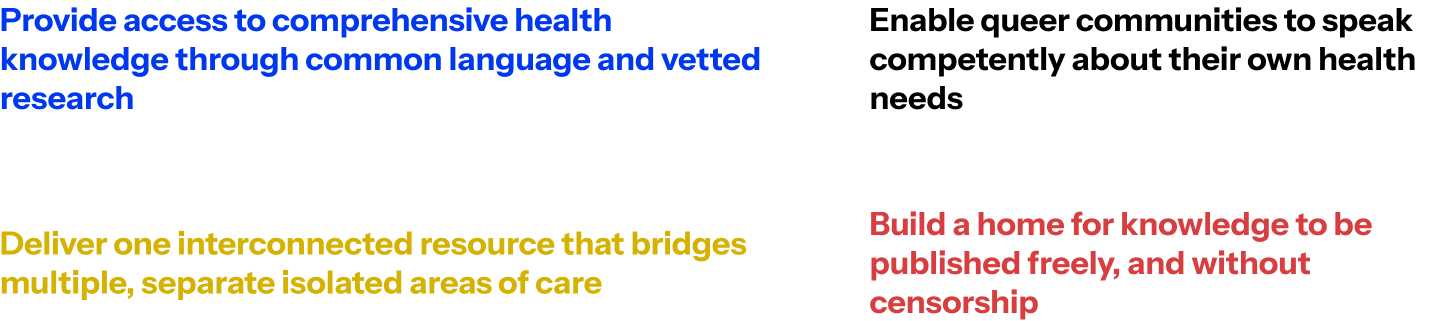
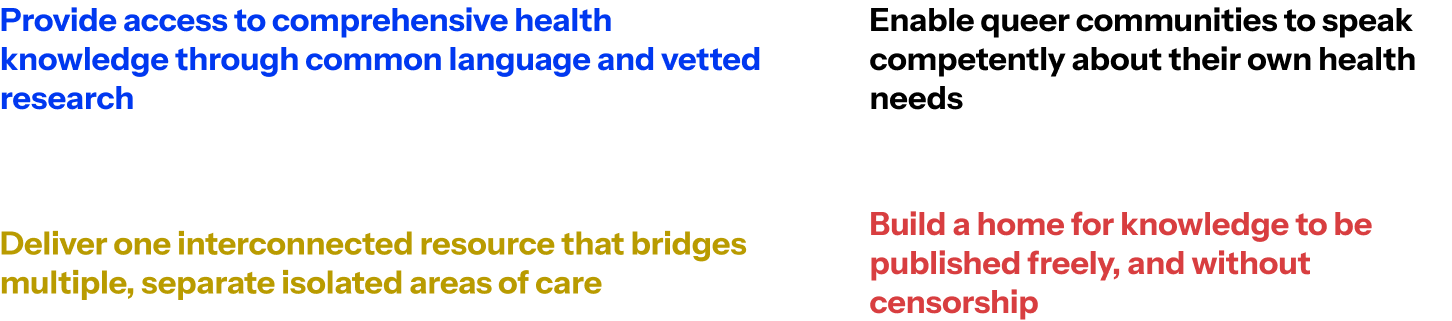
Style and Business Changes

Changed region(s): [[0.0, 0.7165, 0.5269, 0.81], [0.0, 0.8411, 0.4339, 0.9346]]

diff --git a/styles.css b/styles.css
@@ -277,18 +277,31 @@ h2 {
 /* Formerly 2.074 */
 h3 {
 	font-size: calc(1.750rem * var(--scale-factor));
+	color: #000;
+	margin-bottom:12px;
+
 }
 /* Formerly 1.728 */
 h4 {
-	font-size: calc(1.5rem * var(--scale-factor));
+	font-size: calc(1.750rem * var(--scale-factor));
+	color: #0038F0;
+	margin-bottom:12px;
 }
 /* Formerly 1.44 */
 h5 {
-	font-size: calc(1.250rem * var(--scale-factor));
+	font-size: calc(1.750rem * var(--scale-factor));
+	color:#D83E40;
+	margin-top:24px;
+	margin-bottom:12px;
+
 }
-/* Formerly 1.2 */
+
 h6 {
-	font-size: calc(1.0rem * var(--scale-factor));
+	font-size: calc(1.750rem * var(--scale-factor));
+	color:#D5B200;
+	margin-top:24px;
+	margin-bottom:12px;
+
 }
 p {
 	font-size: var(--font-size-medium);